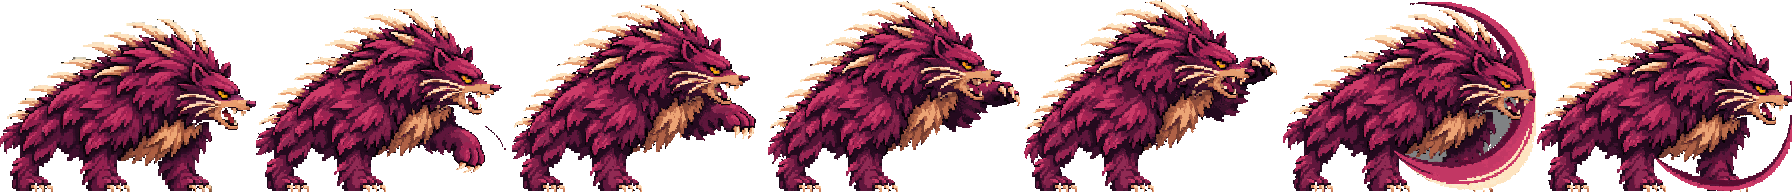
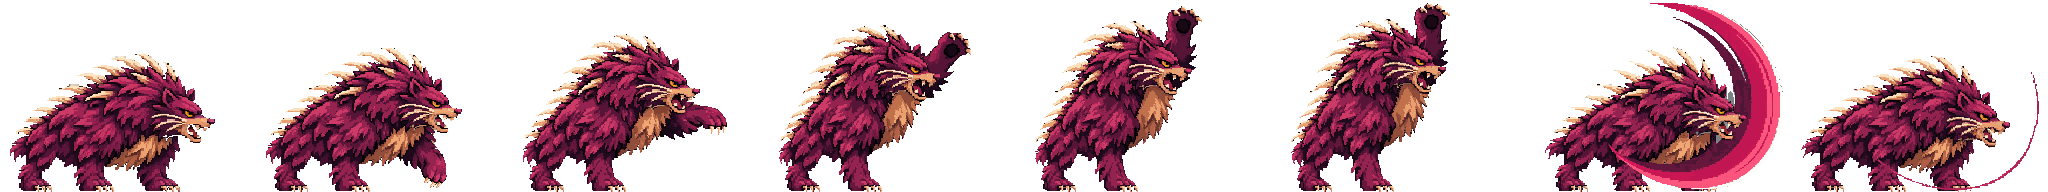
Fix Stage 1 forward clipping with a padded base; add Stage 1 heavy slam
The full-frame Stage 1 base touches the frame edge, so lunges were cut off.
Strips can now declare scale/anchor; forward-reaching strips are generated
from a padded base (205px at x=10) and drawn at the same size and position.
Re-rolled light1 and light3 that way and added heavySlam (3 generations).
prep_form_base.py gains --width/--x; fix_eye.py gains --region/--pad.

Claude-Session: https://claude.ai/code/session_01SJ9dCxk1i12Uvvatxm2TUG

diff --git a/src/presentation.ts b/src/presentation.ts
@@ -25,11 +25,14 @@ const images=new Map<string,HTMLImageElement>();
 // `idle` is required; any other animation falls back to idle until it exists and has loaded.
 // `once` strips (attacks) play a single time from t=0 and hold their last frame; the caller ends them via animDuration.
 // `impact` marks the frame where a hit lands, for syncing gameplay effects to the art.
-type Strip={src:string,frames:number,fps:number,once?:boolean,impact?:number};
+// `scale`/`anchor` are for padded strips generated from a shrunken base (room for lunges): `scale` is the art's size relative to a
+// full-frame 256px-wide strip (default 1) and `anchor` the frame x that lines up with the kaiju's origin (default: frame centre).
+type Strip={src:string,frames:number,fps:number,once?:boolean,impact?:number,scale?:number,anchor?:number};
 // Each kaiju has a base form (`width`/`anims`) plus optional per-stage overrides in `stages`. A stage without an entry uses the base form.
 // Mogurodon: the base art is its Stage 2 form (used for Stages 2 and 3); `stages[1]` is the Stage 1 form, animated incrementally.
 // Within a stage form a missing animation falls back to that form's own `idle`, so a new form can ship with only a few strips.
 type Form={width:number,anims:Record<string,Strip>};
+const S1_PAD={scale:205/256,anchor:10+128*205/256};
 export const SPRITES:Record<string,Form&{stages?:Record<number,Form>}>={
  Mogurodon:{width:120,anims:{idle:{src:'assets/mogurodon-idle.png',frames:8,fps:8},walk:{src:'assets/mogurodon-walk.png',frames:8,fps:10},
   // Light combo by hit order (each form picks its own moves): Stage 2 = right-arm swipe, left-arm swipe, bite.
@@ -50,7 +53,11 @@ export const SPRITES:Record<string,Form&{stages?:Record<number,Form>}>={
    idle:{src:'assets/mogurodon-s1-idle.png',frames:8,fps:8},walk:{src:'assets/mogurodon-s1-walk.png',frames:8,fps:10},
    jumpRise:{src:'assets/mogurodon-s1-jump-rise.png',frames:9,fps:24,once:true},jumpAir:{src:'assets/mogurodon-s1-jump-air.png',frames:4,fps:8},jumpLand:{src:'assets/mogurodon-s1-jump-land.png',frames:5,fps:20,once:true},
    // Light combo: near (left) paw swipe, far (right) paw swipe, lunging bite. fps chosen so each hit lasts as long as Stage 2's.
-   light1:{src:'assets/mogurodon-s1-light1.png',frames:7,fps:21,once:true},light2:{src:'assets/mogurodon-s1-light2.png',frames:8,fps:21,once:true},light3:{src:'assets/mogurodon-s1-light3.png',frames:8,fps:20,once:true}}}}},
+   // Strips that reach forward are generated from the padded base (mogurodon-s1-pad: 205px wide at x=10), so they carry
+   // scale 205/256 and anchor 10+128*scale to draw at the same size and position as the full-frame strips.
+   light1:{src:'assets/mogurodon-s1-light1.png',frames:8,fps:24,once:true,...S1_PAD},light2:{src:'assets/mogurodon-s1-light2.png',frames:8,fps:21,once:true},light3:{src:'assets/mogurodon-s1-light3.png',frames:8,fps:20,once:true,...S1_PAD},
+   // Heavy release: rear up and slam both paws down (no rear/hold strips yet, so charging shows the idle).
+   heavySlam:{src:'assets/mogurodon-s1-heavy-slam.png',frames:8,fps:16,once:true,...S1_PAD}}}}},
 };
 // Resolves the form drawn for a kaiju at a stage (stage omitted = base form).
 function form(name:string,stage?:number):Form|undefined{const s=SPRITES[name];return s&&((stage&&s.stages?.[stage])||s);}
@@ -69,7 +76,9 @@ export function animImpact(name:string,anim:string,stage?:number){const a=timing
 // Seconds a one-shot animation runs; 0 if this kaiju has no such strip (callers then skip it).
 export function animDuration(name:string,anim:string,stage?:number){const a=timing(name,anim,stage);return a?a.frames/a.fps:0;}
 // Draws at the current origin (feet) in the caller's scaled space; flipping and Stage scale come from the caller's transform.
-export function drawSprite(ctx:CanvasRenderingContext2D,name:string,t=0,anim='idle',stage?:number){if(!hasSprite(name,stage))return false;const s=form(name,stage)!,a=strip(name,anim,stage)!,img=images.get(a.src)!,fw=img.naturalWidth/a.frames,h=s.width*img.naturalHeight/fw;const smooth=ctx.imageSmoothingEnabled;ctx.imageSmoothingEnabled=false;ctx.drawImage(img,spriteFrame(name,t,anim,stage)*fw,0,fw,img.naturalHeight,-s.width/2,-h,s.width,h);ctx.imageSmoothingEnabled=smooth;return true;}
+export function drawSprite(ctx:CanvasRenderingContext2D,name:string,t=0,anim='idle',stage?:number){if(!hasSprite(name,stage))return false;
+ const s=form(name,stage)!,a=strip(name,anim,stage)!,img=images.get(a.src)!,fw=img.naturalWidth/a.frames,k=s.width/(256*(a.scale??1)),w=fw*k,h=img.naturalHeight*k;
+ const smooth=ctx.imageSmoothingEnabled;ctx.imageSmoothingEnabled=false;ctx.drawImage(img,spriteFrame(name,t,anim,stage)*fw,0,fw,img.naturalHeight,-(a.anchor??fw/2)*k,-h,w,h);ctx.imageSmoothingEnabled=smooth;return true;}
 function art(ctx:CanvasRenderingContext2D,src:string|null){const img=src?images.get(src):null;if(!img?.complete||!img.naturalWidth)return false;ctx.drawImage(img,0,0,960,540);return true;}
 function box(ctx:CanvasRenderingContext2D,x:number,y:number,w:number,h:number,color:string){ctx.fillStyle=color;ctx.fillRect(Math.round(x),Math.round(y),Math.round(w),Math.round(h));}
 function polygon(ctx:CanvasRenderingContext2D,points:number[][],color:string){ctx.fillStyle=color;ctx.beginPath();points.forEach(([x,y],i)=>i?ctx.lineTo(x,y):ctx.moveTo(x,y));ctx.closePath();ctx.fill();}

diff --git a/tools/prep_form_base.py b/tools/prep_form_base.py
@@ -1,28 +1,42 @@
-import sys, numpy as np
-from PIL import Image
-from PIL import ImageDraw
-src, out = sys.argv[1], sys.argv[2]
-THR = int(sys.argv[3]) if len(sys.argv) > 3 else 40
-im = Image.open(src).convert('RGB'); p = np.asarray(im).astype(int)
-dark = p.sum(2) < THR
-# flood-fill the near-black background from the border only, so dark outline/interior pixels survive
-mask = Image.fromarray(np.where(dark, 255, 0).astype(np.uint8))
+#!/usr/bin/env python3
+"""Key a black-background kaiju render and fit it into a transparent frame for PixelLab (tools/pixellab_animate.py).
+
+Usage:
+  python3 tools/prep_form_base.py render.webp out.png [--width 256] [--x 0] [--height 192] [--block 8] [--thr 40]
+
+The near-black background is flood-filled from the border only, so dark outline/interior pixels survive. The
+sprite is snapped to its native pixel grid (`--block` px per art pixel in the render), scaled with nearest-neighbour
+to `--width`, and pasted at `--x` with its feet on the bottom row of a 256 x `--height` frame.
+
+Padded bases (e.g. --width 205 --x 10) leave room in front of the snout for lunges and slams. Register strips
+generated from one with `scale` (= width/256) and `anchor` (= x + 128*scale) in SPRITES so they draw at the
+same size and position as full-frame strips.
+"""
+import argparse, numpy as np
+from PIL import Image, ImageDraw
+
+ap = argparse.ArgumentParser()
+ap.add_argument('src'); ap.add_argument('out')
+ap.add_argument('--width', type=int, default=256); ap.add_argument('--x', type=int, default=0)
+ap.add_argument('--height', type=int, default=192); ap.add_argument('--block', type=int, default=8)
+ap.add_argument('--thr', type=int, default=40)
+a = ap.parse_args()
+
+p = np.asarray(Image.open(a.src).convert('RGB')).astype(int)
+dark = p.sum(2) < a.thr
 H0, W0 = dark.shape
-flood = mask.copy()
-for seed in [(0,0),(W0-1,0),(0,H0-1),(W0-1,H0-1)] + [(x,0) for x in range(0,W0,64)] + [(x,H0-1) for x in range(0,W0,64)] + [(0,y) for y in range(0,H0,64)] + [(W0-1,y) for y in range(0,H0,64)]:
-    if flood.getpixel(seed)==255: ImageDraw.floodfill(flood, seed, 128)
-bg = np.asarray(flood)==128
-a = (~bg).astype(np.uint8) * 255
-rgba = np.dstack([p.astype(np.uint8), a])
-img = Image.fromarray(rgba, 'RGBA')
-bb = img.getbbox(); img = img.crop(bb); print('bbox', bb, img.size)
-# snap to the native pixel grid (8px blocks) by sampling block centres, then fit to 256 wide
-B = 8
-w, h = img.size; nw, nh = round(w / B), round(h / B)
-native = img.resize((nw, nh), Image.NEAREST); print('native', native.size)
-tw = 256; th = round(nh * tw / nw)
-fit = native.resize((tw, th), Image.NEAREST); print('fit', fit.size)
-H = int(sys.argv[4]) if len(sys.argv) > 4 else 192
-assert th <= H, (th, H)
-frame = Image.new('RGBA', (256, H), (0, 0, 0, 0)); frame.paste(fit, (0, H - th))
-frame.save(out, optimize=True); print('wrote', out, frame.size)
+flood = Image.fromarray(np.where(dark, 255, 0).astype(np.uint8)).copy()  # fromarray can be read-only; floodfill would no-op
+seeds = [(x, 0) for x in range(0, W0, 64)] + [(x, H0 - 1) for x in range(0, W0, 64)] + \
+        [(0, y) for y in range(0, H0, 64)] + [(W0 - 1, y) for y in range(0, H0, 64)] + [(W0 - 1, H0 - 1)]
+for s in seeds:
+    if flood.getpixel(s) == 255: ImageDraw.floodfill(flood, s, 128)
+alpha = np.where(np.asarray(flood) == 128, 0, 255).astype(np.uint8)
+img = Image.fromarray(np.dstack([p.astype(np.uint8), alpha]), 'RGBA')
+img = img.crop(img.getbbox())
+native = img.resize((round(img.width / a.block), round(img.height / a.block)), Image.NEAREST)
+th = round(native.height * a.width / native.width)
+fit = native.resize((a.width, th), Image.NEAREST)
+if th > a.height or a.x + a.width > 256: raise SystemExit(f'sprite {a.width}x{th} at x={a.x} does not fit 256x{a.height}')
+frame = Image.new('RGBA', (256, a.height), (0, 0, 0, 0)); frame.paste(fit, (a.x, a.height - th))
+frame.save(a.out, optimize=True)
+print(f'{a.out}: native {native.size}, sprite {a.width}x{th} at x={a.x}, frame 256x{a.height}')

diff --git a/tools/fix_eye.py b/tools/fix_eye.py
@@ -2,13 +2,13 @@
 """Restore a detail that a PixelLab strip washed out (e.g. Mogurodon Stage 1's gold eye) by tracking the head.
 
 Usage:
-  python3 tools/fix_eye.py strip.png out.png [--ref base.png] [--radius 8] [--offset FRAME:DY,DX ...]
+  python3 tools/fix_eye.py strip.png out.png [--ref base.png] [--radius 8] [--region Y0,Y1,X0,X1] [--offset FRAME:DY,DX ...]
 
 The eye pixels and the head patch around them come from --ref (a single 256-wide frame with the eye intact;
 defaults to the strip's own frame 0). Each frame is searched within +-radius px for the best head match and
 the eye is stamped there. Check the result and pass --offset for any mis-tracked frame (big squashes can move
-the head past the radius). The eye colour test and search region are set for Mogurodon Stage 1; adjust `region`
-/ `is_eye` for other forms.
+the head past the radius). The eye colour test is set for Mogurodon Stage 1; the default --region fits the full-frame
+Stage 1 base (use 100,130,175,205 for the padded mogurodon-s1-pad base). Adjust `is_eye` for other forms.
 """
 import argparse, numpy as np
 from PIL import Image
@@ -17,6 +17,8 @@ FW = 256
 ap = argparse.ArgumentParser()
 ap.add_argument('src'); ap.add_argument('out')
 ap.add_argument('--ref'); ap.add_argument('--radius', type=int, default=8)
+ap.add_argument('--pad', type=int, default=6, help='head-patch margin around the eye used for matching')
+ap.add_argument('--region', default='70,110,200,240', help='y0,y1,x0,x1 box in the ref that contains the eye')
 ap.add_argument('--offset', action='append', default=[], help='manual override for a mis-tracked frame: FRAME:DY,DX')
 a = ap.parse_args()
 
@@ -27,11 +29,12 @@ if ref.shape[0] != H:  # ref may be a different height; align bottoms
     pad = np.zeros((H, FW, 4), int); h = min(H, ref.shape[0]); pad[H - h:] = ref[ref.shape[0] - h:]; ref = pad
 
 r, g, b, al = [ref[..., k] for k in range(4)]
-region = np.zeros(al.shape, bool); region[70:110, 200:240] = True
+ry0, ry1, rx0, rx1 = map(int, a.region.split(','))
+region = np.zeros(al.shape, bool); region[ry0:ry1, rx0:rx1] = True
 is_eye = region & (al > 200) & (r > 170) & (g > 100) & (b < 80) & (g - b > 60)
 ys, xs = np.where(is_eye)
 if not len(xs): raise SystemExit('no eye pixels found in ref')
-y0, y1, x0, x1 = ys.min() - 5, ys.max() + 6, xs.min() - 6, xs.max() + 7
+P = a.pad; y0, y1, x0, x1 = ys.min() - P + 1, ys.max() + P, xs.min() - P, xs.max() + P + 1
 tpl = ref[y0:y1, x0:x1, :3]; tm = (ref[y0:y1, x0:x1, 3] > 128) & ~is_eye[y0:y1, x0:x1]
 
 R = a.radius

diff --git a/README.md b/README.md
@@ -55,7 +55,7 @@ Score is earned points minus actual HP damage penalty, including healed damage. 
 
 **Art:** `public/assets/mogurodon.png` is the first final sprite (transparent, keyed from the supplied render and downscaled to 444×231). Sprites are registered in `SPRITES` in `src/presentation.ts` and used by gameplay, selection previews and the ending scene; kaiju without a sprite fall back to the geometric silhouettes. Mogurodon has an 8-frame idle loop (`public/assets/mogurodon-idle.png`, 256×144 frames, 8 fps) generated with PixelLab from the base sprite via `tools/pixellab_animate.py`; and an 8-frame all-fours walk loop (`public/assets/mogurodon-walk.png`, 10 fps, generated from a planted all-fours pose with that pose as both first and last frame so it closes cleanly) plays while moving on the ground. The light combo plays one-shot strips per hit: 1 overhead right-arm swipe (`mogurodon-swipe-right.png`, 8 frames, 24 fps), 2 left-arm swipe with the far claw raised behind the head (`mogurodon-swipe-left.png`, 10 frames, 26 fps; built from a PixelLab pose-edit keyframe plus two animated segments), 3 lunging bite (`mogurodon-bite.png`, 8 frames, 20 fps). All three start and end on idle frame 0, and idle/walk restart at frame 0 when they begin, so attacks blend in and out of the idle without a pose snap. Heavy (K): holding plays `mogurodon-heavy-rear.png` once (rear back onto the haunches), then loops `mogurodon-heavy-hold.png` while charging; release plays `mogurodon-heavy-slam.png` (overhead slam into the ground with dust, settling back to idle). These strips are 256x192 for headroom. Ranged (L): tail whips forward and flings a spike — `mogurodon-ranged-stand.png` standing (9 frames), `mogurodon-ranged-crouch.png` while crouched (8 frames), both 20 fps with the tail sweeping forward along the flank; the projectile is drawn as a bone-white quill. Crouch (S): `mogurodon-crouch-down.png` into `mogurodon-crouch.png` (breathing loop, drawn full size instead of the old 0.6 squash), `mogurodon-crouch-up.png` (reversed) on release. Jump: `mogurodon-jump-rise.png` (push-off into the leap, only when launched upward), `mogurodon-jump-air.png` (airborne loop for any time off the ground), `mogurodon-jump-land.png` (impact and recover) on touchdown; 256x192, bottom-aligned so physics alone moves him. Climb (W): `mogurodon-climb-grab.png` (swing up onto the wall), `mogurodon-climb.png` (hand-over-hand loop while ascending), `mogurodon-climb-mantle.png` (haul over onto the roof into idle); 256x256, facing the wall being climbed. The loop pauses while hanging still, and jumping off goes straight into the jump air loop. Seismic Rupture (U): `mogurodon-ult-roar.png` (rear up and roar, then slam down with a burst) followed by `mogurodon-ult-pound.png` (alternating ground-pounding loop, roughly one slam per fissure pulse) for the rest of the 2.4s Ultimate. The first fissure is delayed to the roar's crash-down (impact frame 5, ~0.36s), so Mogurodon's Ultimate sends 9 fissure pulses instead of 10. `mogurodon.png` is kept as the higher-res base/reference.
 
-**Per-stage forms:** `SPRITES[name]` is the base form (for Mogurodon, the art above is its Stage 2 design, also used for Stage 3); `stages[n]` overrides it for one stage. Inside a stage form a missing strip falls back to that form's own `idle`, while gameplay timing (`animDuration`/`animImpact`) borrows the base strip's, so combat is unchanged until a form's strips are animated. Mogurodon Stage 1 (`assets/mogurodon-s1.png`, 256x192, bottom-aligned) is the base; its 8-frame idle (`assets/mogurodon-s1-idle.png`, 8 fps) and walk (`assets/mogurodon-s1-walk.png`, 10 fps, base pose as first and last frame) loops cost one PixelLab generation each. Light combo (`light1`/`light2`/`light3`, keyed by hit order so each form picks its own moves): near (left) paw swipe, far (right) paw swipe, lunging bite (`assets/mogurodon-s1-light1..3.png`, 4 generations incl. one bite re-roll; the first swipe's out-of-order smear frame was dropped). Jump: `assets/mogurodon-s1-jump-rise.png` (9 frames, 24 fps) and `assets/mogurodon-s1-jump-air.png` (4-frame loop, 8 fps, generated from the rise's last frame) and `assets/mogurodon-s1-jump-land.png` (5 frames, 20 fps, air pose to base pose), bottom-aligned with `tools/bottom_align.py`. PixelLab washes out the gold eye after frame 0; `tools/fix_eye.py --ref assets/mogurodon-s1.png --radius 30` tracks the head and restores it. Animate further strips with `tools/pixellab_animate.py` and add strips to `stages[1].anims`. `tools/prep_form_base.py` keys a black-background render and fits it into a frame for that.
+**Per-stage forms:** `SPRITES[name]` is the base form (for Mogurodon, the art above is its Stage 2 design, also used for Stage 3); `stages[n]` overrides it for one stage. Inside a stage form a missing strip falls back to that form's own `idle`, while gameplay timing (`animDuration`/`animImpact`) borrows the base strip's, so combat is unchanged until a form's strips are animated. Mogurodon Stage 1 (`assets/mogurodon-s1.png`, 256x192, bottom-aligned) is the base; its 8-frame idle (`assets/mogurodon-s1-idle.png`, 8 fps) and walk (`assets/mogurodon-s1-walk.png`, 10 fps, base pose as first and last frame) loops cost one PixelLab generation each. Light combo (`light1`/`light2`/`light3`, keyed by hit order so each form picks its own moves): near (left) paw swipe, far (right) paw swipe, lunging bite (`assets/mogurodon-s1-light1..3.png`) and heavy slam (`assets/mogurodon-s1-heavy-slam.png`, rear up and slam both paws down). The full-frame base touches the frame edge, so strips that reach forward (light1, light3, heavySlam) are generated from a padded base, `assets/mogurodon-s1-pad.png` (205px wide at x=10, made with `tools/prep_form_base.py --width 205 --x 10`), and registered with `scale`/`anchor` so they draw at the same size and position. Jump: `assets/mogurodon-s1-jump-rise.png` (9 frames, 24 fps) and `assets/mogurodon-s1-jump-air.png` (4-frame loop, 8 fps, generated from the rise's last frame) and `assets/mogurodon-s1-jump-land.png` (5 frames, 20 fps, air pose to base pose), bottom-aligned with `tools/bottom_align.py`. PixelLab washes out the gold eye after frame 0; `tools/fix_eye.py --ref assets/mogurodon-s1.png --radius 30` tracks the head and restores it. Animate further strips with `tools/pixellab_animate.py` and add strips to `stages[1].anims`. `tools/prep_form_base.py` keys a black-background render and fits it into a frame for that.
 
 No user sprites were imported or overwritten; supplied documents were preserved. All current art is explicitly temporary Canvas geometry, with no AI asset generation or sound. Put final hand-drawn sprites in `public/assets/`, preserve transparent originals, use bottom-center anchors, integer frame rectangles and nearest-neighbor filtering. Final kaiju sheets, building/unit sprites, intro/menu and six ending illustrations remain missing.
 
